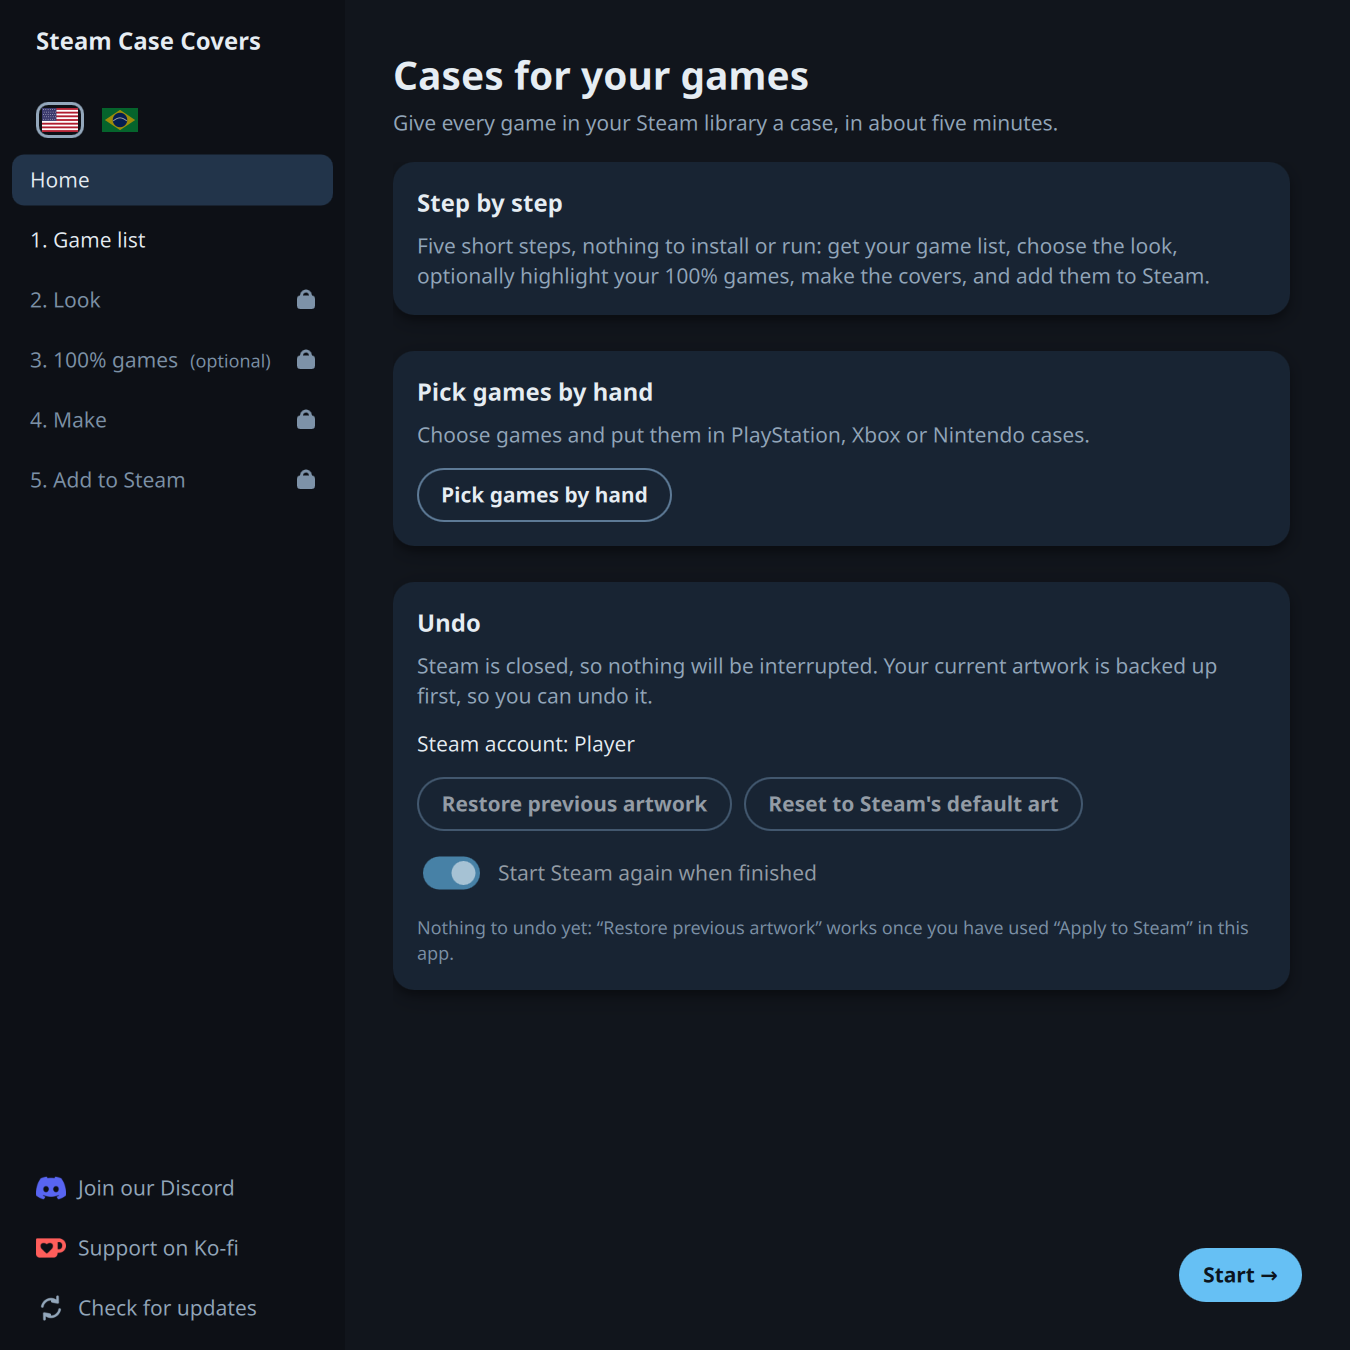
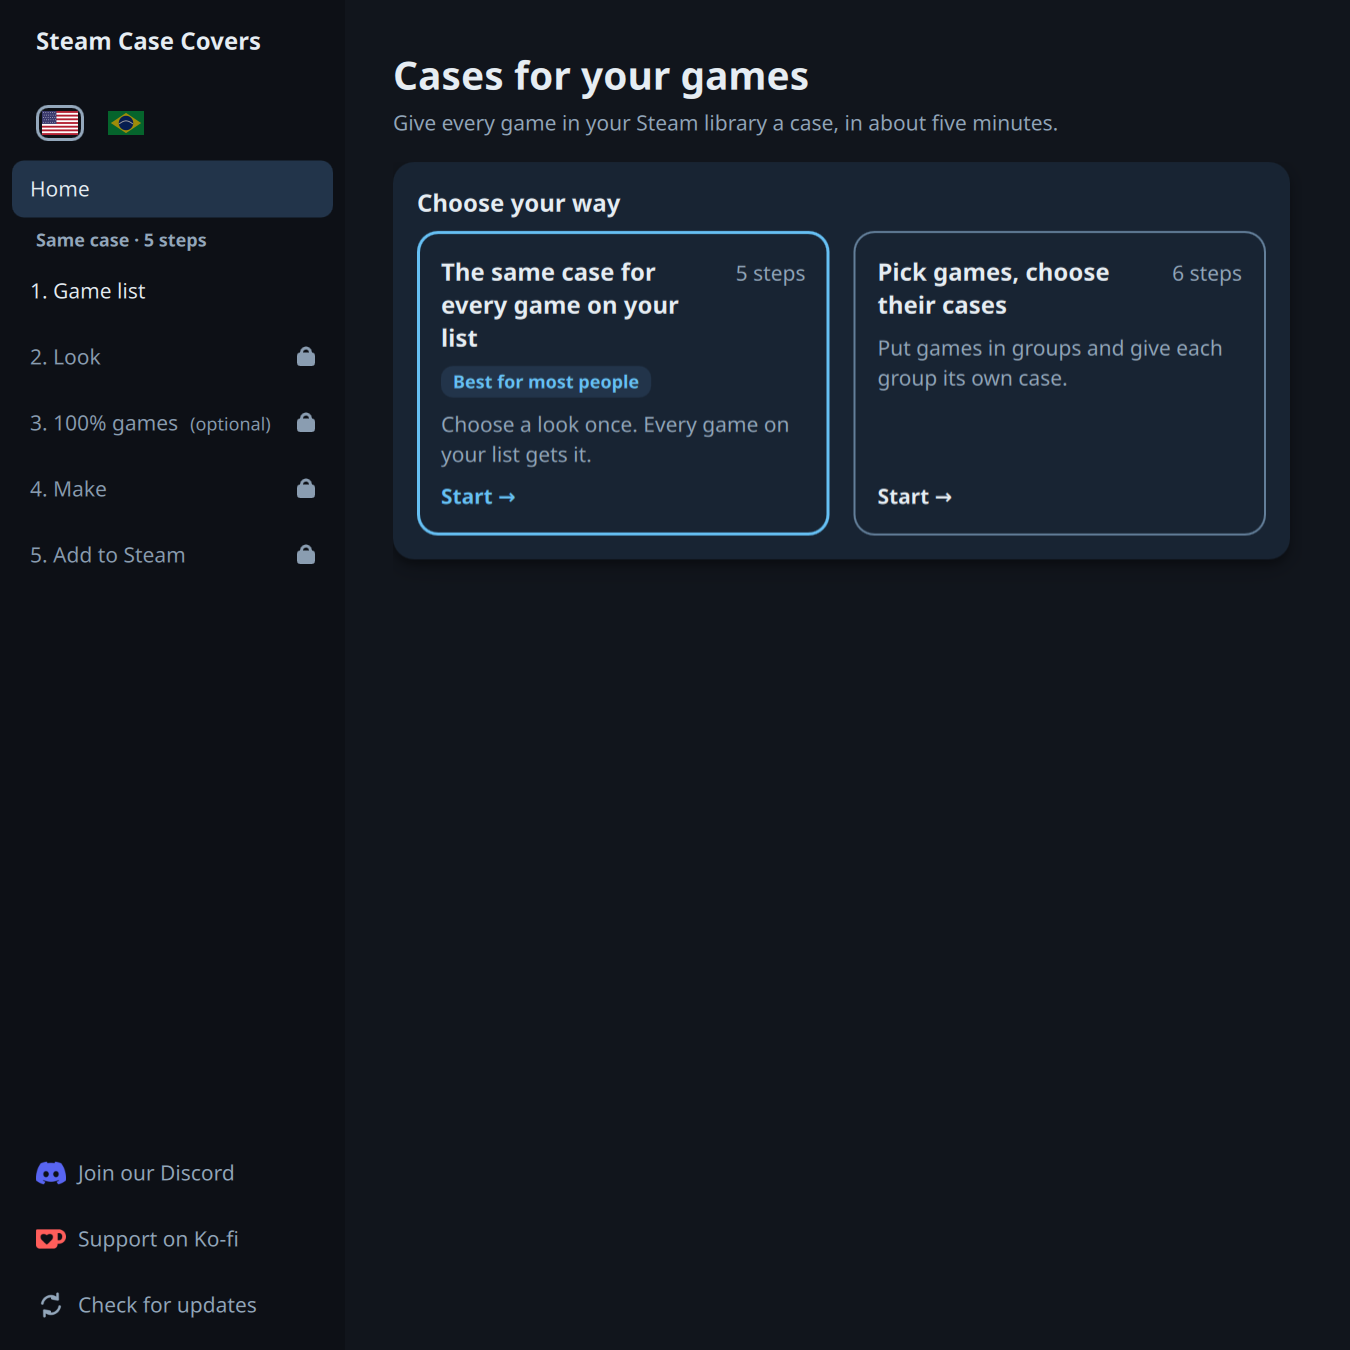
docs: new README screenshots in both languages, with alt text that matches them

diff --git a/README.pt-BR.md b/README.pt-BR.md
@@ -33,12 +33,12 @@
 
 <table align="center">
   <tr>
-    <td align="center"><a href="https://github.com/diegobergonsi/steam-case-covers/raw/main/assets/screenshot-home-pt.png"><img src="assets/screenshot-home-pt.png" width="380" alt="Início: os passos à esquerda com as bandeiras de idioma, Escolher jogos à mão e a seção Desfazer"></a><br><sub>Início</sub></td>
+    <td align="center"><a href="https://github.com/diegobergonsi/steam-case-covers/raw/main/assets/screenshot-home-pt.png"><img src="assets/screenshot-home-pt.png" width="380" alt="Início, na primeira vez: dois cartões, a mesma case para todos os jogos da sua lista e Escolha os jogos e as cases, com os passos à esquerda e as bandeiras de idioma"></a><br><sub>Início</sub></td>
     <td align="center"><a href="https://github.com/diegobergonsi/steam-case-covers/raw/main/assets/screenshot-look-pt.png"><img src="assets/screenshot-look-pt.png" width="380" alt="O passo Visual: uma prévia da case e as opções de cor"></a><br><sub>1. Escolha o visual</sub></td>
   </tr>
   <tr>
     <td align="center"><a href="https://github.com/diegobergonsi/steam-case-covers/raw/main/assets/screenshot-100-pt.png"><img src="assets/screenshot-100-pt.png" width="380" alt="O passo Jogos 100%: uma case dourada com roseta e faixa, e as opções para marcar esses jogos"></a><br><sub>2. Destaque os seus jogos com 100%</sub></td>
-    <td align="center"><a href="https://github.com/diegobergonsi/steam-case-covers/raw/main/assets/screenshot-cases-pt.png"><img src="assets/screenshot-cases-pt.png" width="380" alt="Escolha uma case: a case da Steam e as de PlayStation, Xbox e Nintendo, cada uma com o seu visual"></a><br><sub>3. Ou escolha uma case de console à mão</sub></td>
+    <td align="center"><a href="https://github.com/diegobergonsi/steam-case-covers/raw/main/assets/screenshot-cases-pt.png"><img src="assets/screenshot-cases-pt.png" width="380" alt="Escolha uma case: a case da Steam, as de PlayStation, Xbox e Nintendo e uma case sua, com uma prévia da case escolhida"></a><br><sub>3. Ou escolha uma case de console à mão</sub></td>
   </tr>
 </table>
 

diff --git a/README.md b/README.md
@@ -33,12 +33,12 @@
 
 <table align="center">
   <tr>
-    <td align="center"><a href="https://github.com/diegobergonsi/steam-case-covers/raw/main/assets/screenshot-home.png"><img src="assets/screenshot-home.png" width="380" alt="Home: the steps on the left with the language flags, Pick games by hand, and the Undo section"></a><br><sub>Home</sub></td>
+    <td align="center"><a href="https://github.com/diegobergonsi/steam-case-covers/raw/main/assets/screenshot-home.png"><img src="assets/screenshot-home.png" width="380" alt="Home the first time: two cards, the same case for every game on your list and Pick games, choose their cases, with the steps on the left and the language flags"></a><br><sub>Home</sub></td>
     <td align="center"><a href="https://github.com/diegobergonsi/steam-case-covers/raw/main/assets/screenshot-look.png"><img src="assets/screenshot-look.png" width="380" alt="The Look step: a preview of the case and the colour choices"></a><br><sub>1. Choose the look</sub></td>
   </tr>
   <tr>
     <td align="center"><a href="https://github.com/diegobergonsi/steam-case-covers/raw/main/assets/screenshot-100.png"><img src="assets/screenshot-100.png" width="380" alt="The 100% games step: a gold case with a rosette and ribbon, and the choices to mark those games"></a><br><sub>2. Highlight your 100% games</sub></td>
-    <td align="center"><a href="https://github.com/diegobergonsi/steam-case-covers/raw/main/assets/screenshot-cases.png"><img src="assets/screenshot-cases.png" width="380" alt="Pick a case: the Steam case and the PlayStation, Xbox and Nintendo cases, each with its own look"></a><br><sub>3. Or pick a console case by hand</sub></td>
+    <td align="center"><a href="https://github.com/diegobergonsi/steam-case-covers/raw/main/assets/screenshot-cases.png"><img src="assets/screenshot-cases.png" width="380" alt="Pick a case: the Steam case, the PlayStation, Xbox and Nintendo cases and a case of your own, with a preview of the case you picked"></a><br><sub>3. Or pick a console case by hand</sub></td>
   </tr>
 </table>
 
